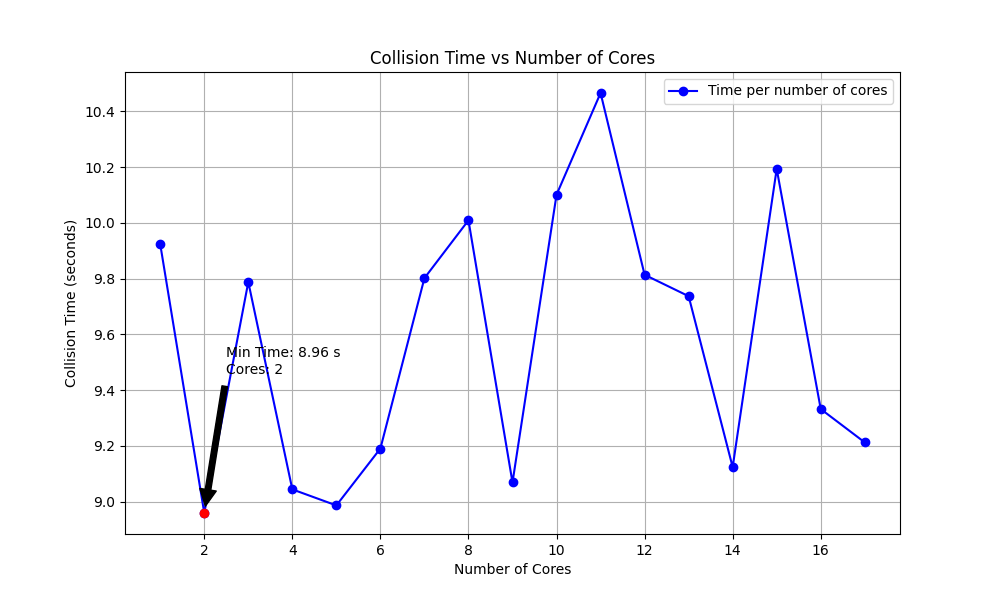
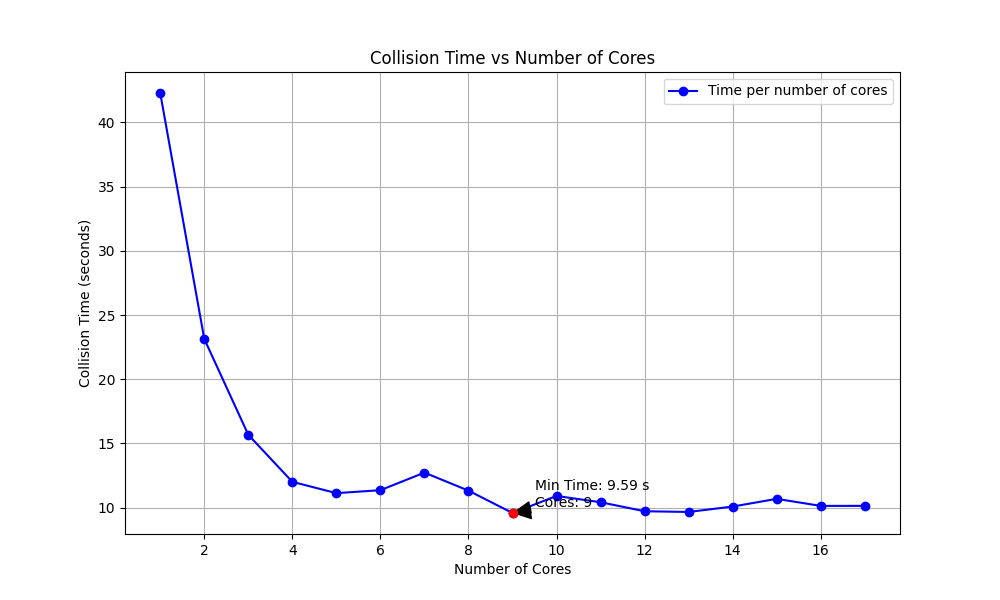
fixed method, add new graphic

diff --git a/lab_4/cash.py b/lab_4/cash.py
@@ -67,7 +67,7 @@ class Hash:
         collision_time = [[], []]
         for cores in range(1, int(mp.cpu_count() * 1.5)):
             start = time.time()
-            with mp.Pool(processes=mp.cpu_count()) as p:
+            with mp.Pool(cores) as p:
                 for result in p.starmap(
                     Hash.card_number_checking,
                     (

diff --git a/lab_4/main.py b/lab_4/main.py
@@ -128,4 +128,3 @@ if __name__ == "__main__":
     application = MainWindow()
     application.show()
     sys.exit(app.exec_())
-
